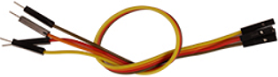
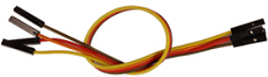
V04-2026-07-07

diff --git a/KE0165P_V02/1.产品介绍/1.产品介绍.md b/KE0165P_V02/1.产品介绍/1.产品介绍.md
@@ -90,7 +90,7 @@
 | 32 | 缠绕管 直径8MM  | 1 | ![](./media/image30.png) |
 | 33 | 黑色 扎带  | 6 | ![](./media/image31.png) |
 | 34 | 舵机控制模块  | 1 | ![](./media/MD0798.png) |
-| 35 | 公对母杜邦线(颜色任意)  | 4 | ![](./media/2p200.png) |
+| 35 | 母对母杜邦线(颜色任意)  | 4 | ![](./media/2p200.png) |
 | 36 | 5号(AA 1.5V)电池<span style="color: rgb(255, 76, 65);">(自己提供)</span>  | 6 | ![](./media/battery.png) |
 | 37 | 18650电池<span style="color: rgb(255, 76, 65);">(自己提供)</span>  | 2 | ![](./media/battery_1.png) |
 

diff --git a/KE0165P_V02/3.4WD车组装/KE0165P安装和接线.md b/KE0165P_V02/3.4WD车组装/KE0165P安装和接线.md
@@ -134,7 +134,7 @@
 
 ![](./media/2p-200.png)
 
-- 2PIN 公对母杜邦线 颜色随机
+- 2PIN 母对母杜邦线 颜色随机
 
 | 舵机 | 舵机控制模块 |
 | :--: | :----------: |
